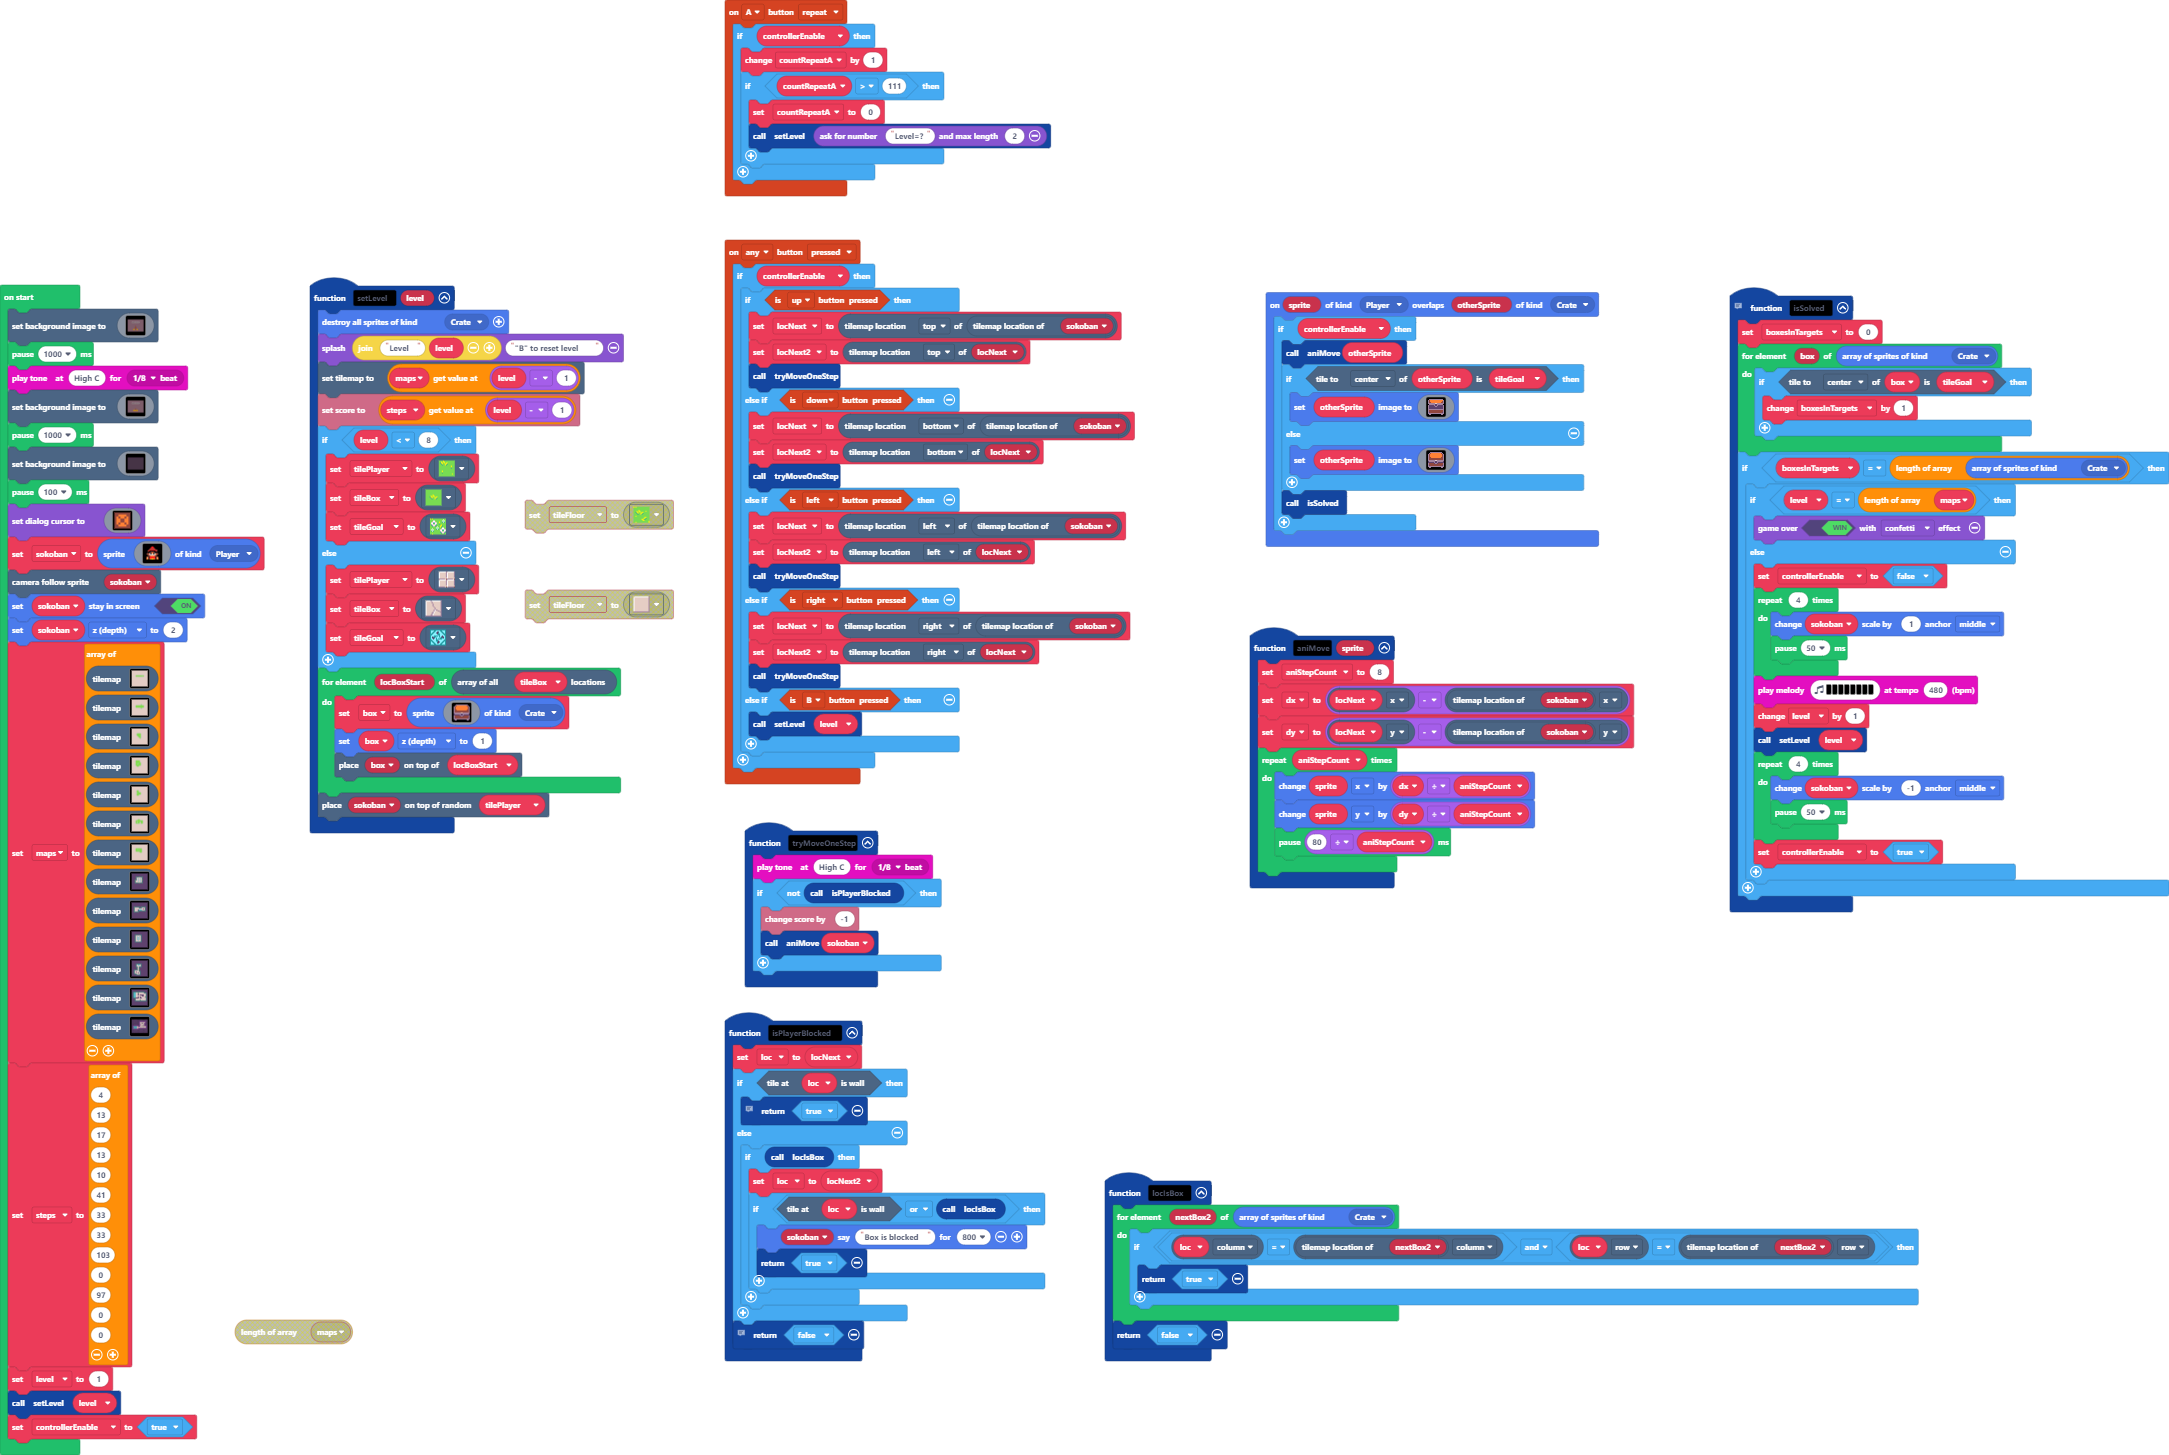
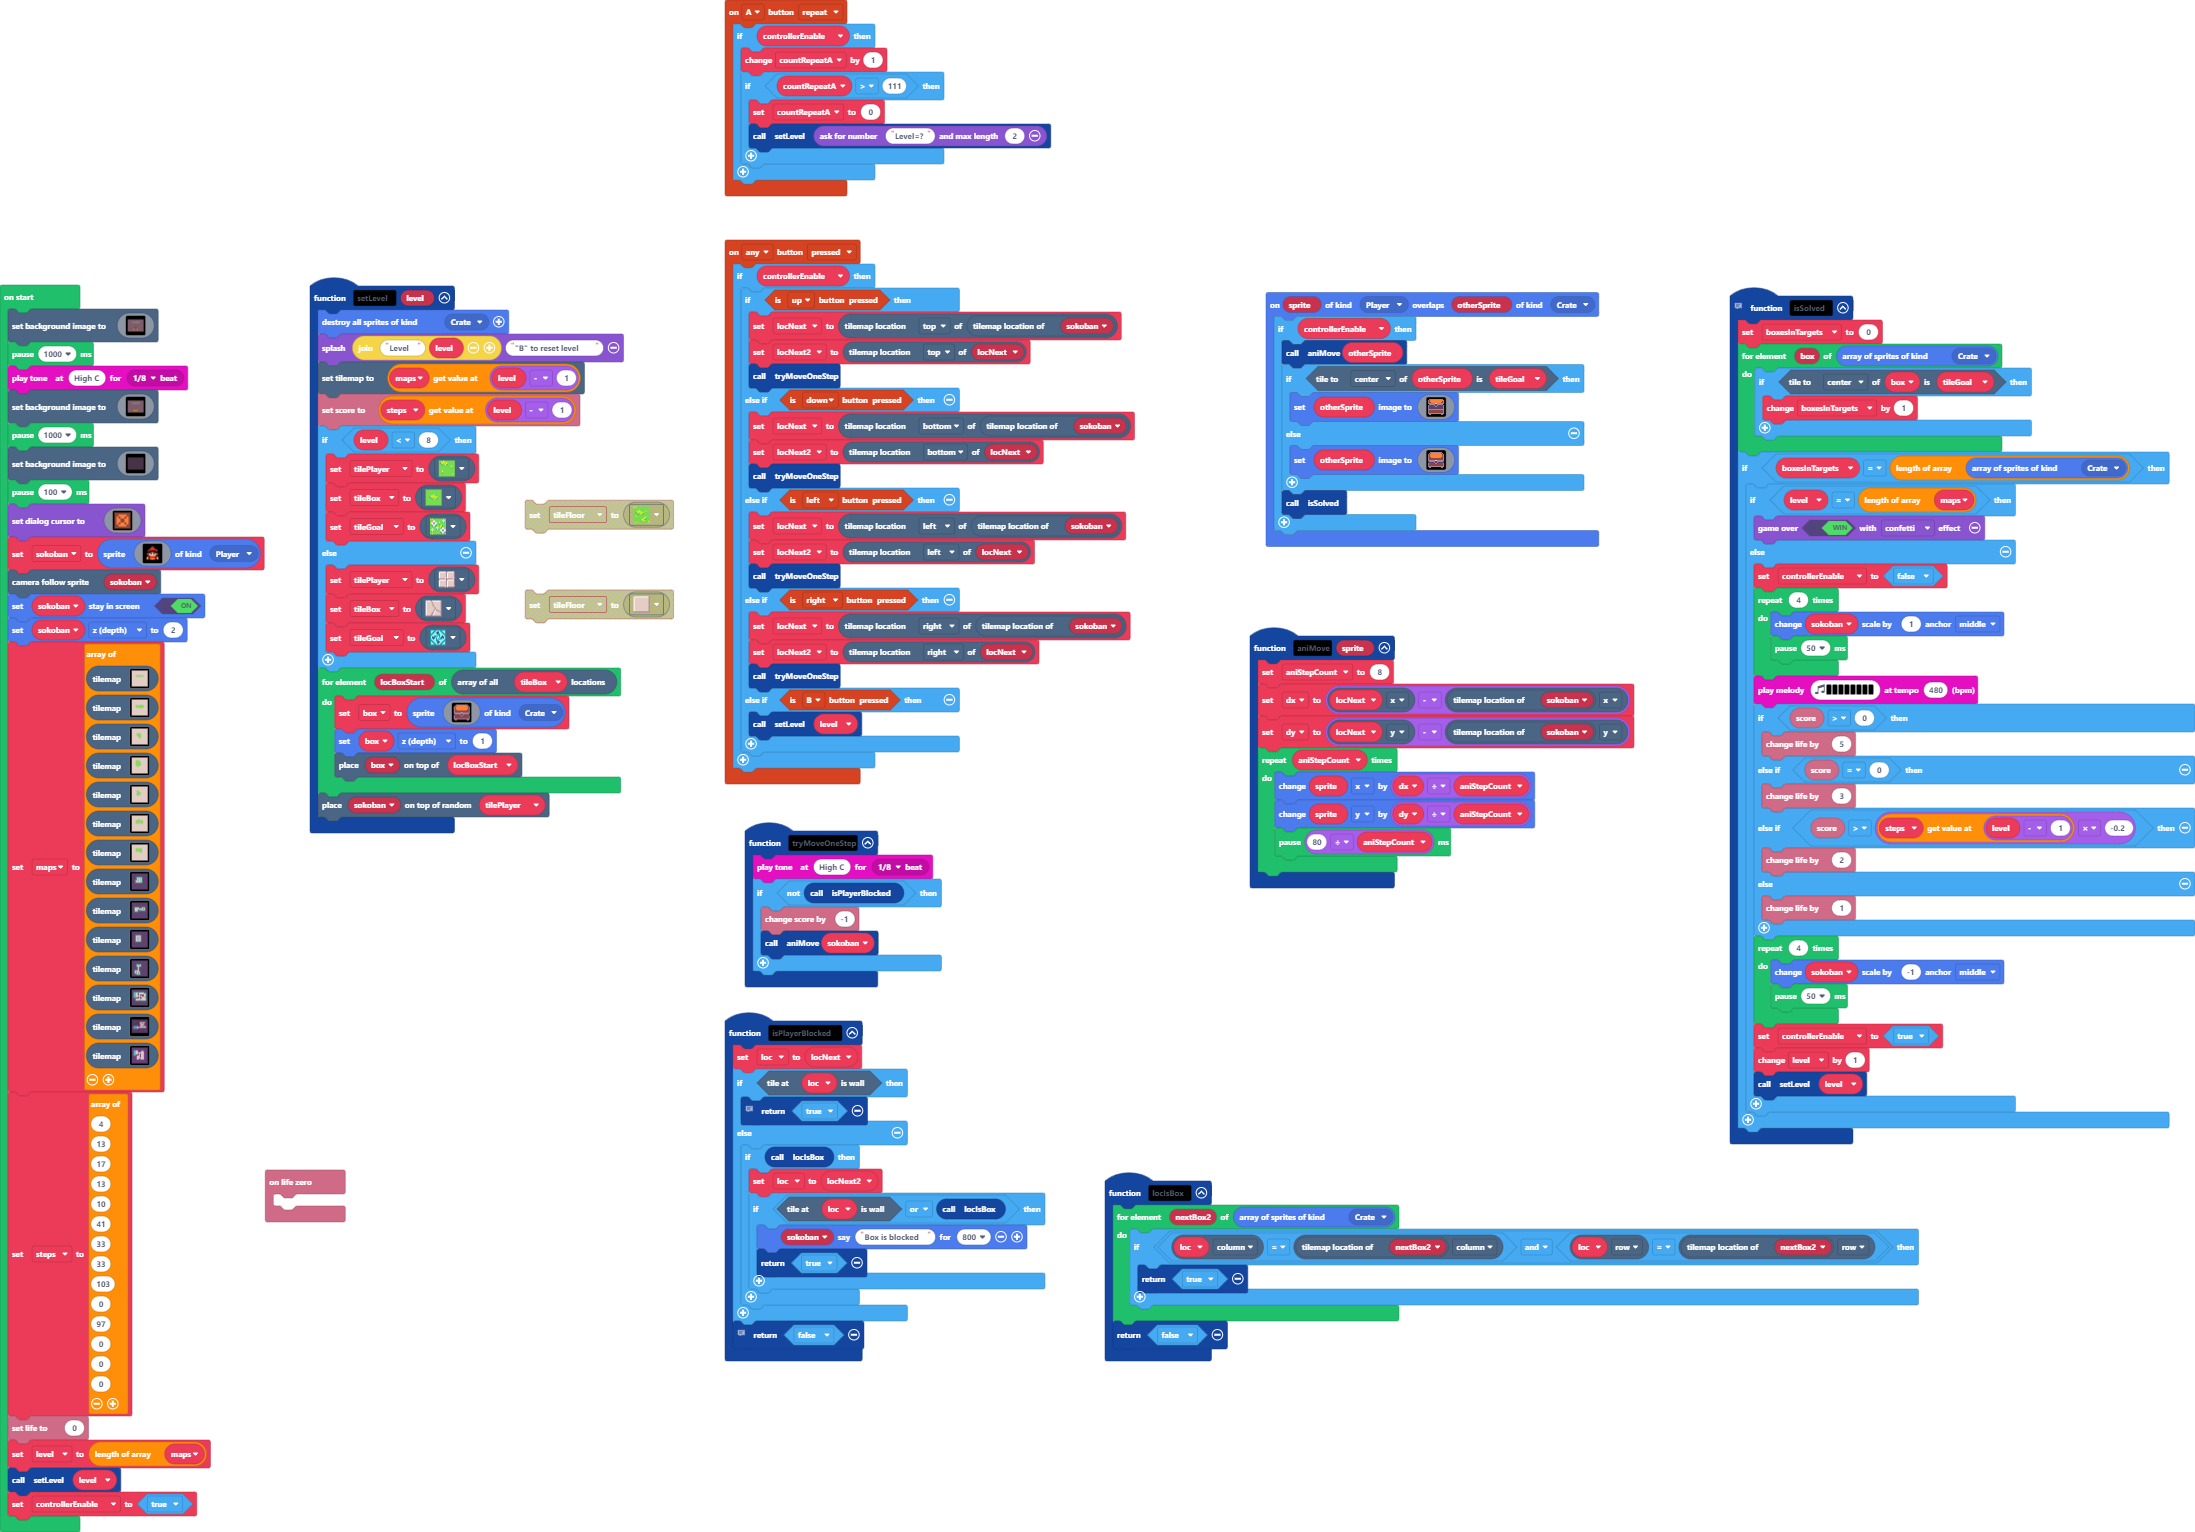
Add Level14; Life count as Stars

diff --git a/tilemap.g.ts b/tilemap.g.ts
@@ -577,6 +577,25 @@ namespace myTiles {
 . . . . . . . . . . . . . . . . 
 . . . . . . . . . . . . . . . . 
 `, [myTiles.transparency16,sprites.castle.tileGrass2,sprites.castle.tileGrass1,sprites.castle.tileGrass3,sprites.castle.tilePath2,sprites.castle.tilePath8,sprites.castle.tilePath4,sprites.castle.tilePath6,sprites.castle.tilePath5,myTiles.tile2], TileScale.Sixteen);
+            case "level31":
[1 lines of base64/hex data omitted]
+. . . . . . . . . . . . . . . . 
+. . . . . . . . . . . . . . . . 
+. 2 2 2 2 2 2 . . 2 2 2 . . . . 
+. 2 . . . . 2 . 2 2 . 2 2 . . . 
+. 2 . . . . 2 2 2 . . . 2 . . . 
+. 2 . . . . . . . . . . 2 . . . 
+. 2 . . . . 2 . 2 . . . 2 . . . 
+. 2 . . 2 2 2 . 2 . . . 2 . . . 
+. 2 2 2 2 . . . 2 . . . 2 . . . 
+. . . . 2 . . . 2 . . . 2 . . . 
+. . . . 2 . . . . . . . 2 . . . 
+. . . . 2 . . 2 2 . . . 2 . . . 
+. . . . 2 2 2 2 2 2 2 2 2 . . . 
+. . . . . . . . . . . . . . . . 
+. . . . . . . . . . . . . . . . 
+. . . . . . . . . . . . . . . . 
+`, [myTiles.transparency16,sprites.dungeon.collectibleInsignia,sprites.dungeon.floorLight2,sprites.dungeon.floorLight0,sprites.dungeon.floorLight5,sprites.dungeon.purpleOuterNorth0,sprites.dungeon.purpleOuterEast0,sprites.dungeon.purpleOuterWest0,sprites.dungeon.darkGroundCenter,sprites.dungeon.purpleOuterNorthEast,sprites.dungeon.purpleOuterSouthEast,sprites.dungeon.purpleOuterNorthWest,sprites.dungeon.purpleInnerSouthEast,sprites.dungeon.purpleInnerNorthEast,sprites.dungeon.purpleOuterSouth1,sprites.dungeon.purpleOuterSouthWest,sprites.dungeon.purpleInnerNorthWest,sprites.dungeon.purpleInnerSouthWest,sprites.dungeon.purpleOuterNorth1], TileScale.Sixteen);
         }
         return null;
     })

diff --git a/main.ts b/main.ts
@@ -170,16 +170,28 @@ function isSolved () {
                 pause(50)
             }
             music.playMelody("C - C G C5 C5 - - ", 480)
-            level += 1
-            setLevel(level)
+            if (info.score() > 0) {
+                info.changeLifeBy(5)
+            } else if (info.score() == 0) {
+                info.changeLifeBy(3)
+            } else if (info.score() > steps[level - 1] * -0.2) {
+                info.changeLifeBy(2)
+            } else {
+                info.changeLifeBy(1)
+            }
             for (let index = 0; index < 4; index++) {
                 sokoban.changeScale(-1, ScaleAnchor.Middle)
                 pause(50)
             }
             controllerEnable = true
+            level += 1
+            setLevel(level)
         }
     }
 }
+info.onLifeZero(function () {
+	
+})
 controller.A.onEvent(ControllerButtonEvent.Repeated, function () {
     if (controllerEnable) {
         countRepeatA += 1
@@ -628,7 +640,8 @@ tilemap`level25`,
 tilemap`level26`,
 tilemap`level27`,
 tilemap`level28`,
-tilemap`level30`
+tilemap`level30`,
+tilemap`level31`
 ]
 steps = [
 4,
@@ -643,8 +656,10 @@ steps = [
 0,
 97,
 0,
+0,
 0
 ]
-level = 1
+info.setLife(0)
+level = maps.length
 setLevel(level)
 controllerEnable = true
